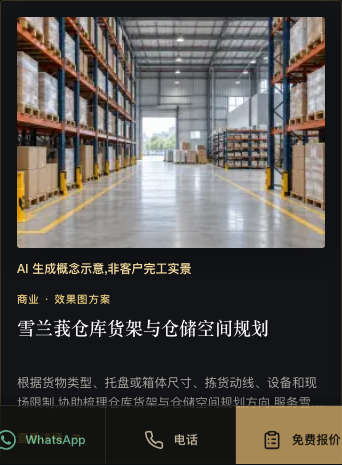
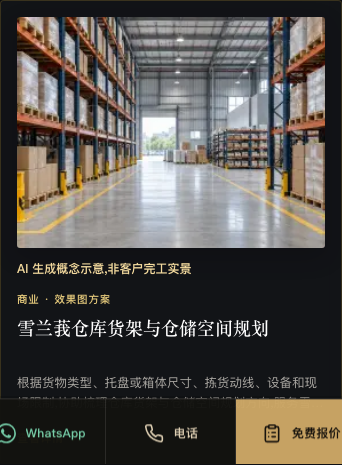
Rebase service media candidate and refresh V5 QA evidence

Changed region(s): [[0.0, 0.843, 1.0, 1.0], [0.0, 0.9032, 0.2632, 0.9935], [0.4094, 0.9032, 0.5848, 0.9634]]

diff --git a/drafts/seo/fc-20260926-website-placeholder-media-audit-v1/service-media-original-concepts-r2-v5-rollback.md b/drafts/seo/fc-20260926-website-placeholder-media-audit-v1/service-media-original-concepts-r2-v5-rollback.md
@@ -1,0 +1,15 @@
+# ORG-026 服务图片 R2 V5 候选备份与恢复
+
+- 原 task_id：`fc-20260926-service-media-original-concepts-implementation-v2`，原图片任务 `fc-20260926-website-placeholder-media-audit-v1`；动作 `org026-service-media-site-code-r2-v4`，候选版本 `service-media-original-concepts-r2-v5`。PR #104 仅为待复验草稿；本文件不表示 QA 通过或已发布。
+- V5 基线为包含 KL 段落修复的 main `9e77b95e1f7ead6cdcb722a9634579ee6d48b84b`。隔离工作树 `backups/fc-20260926-service-media-original-concepts-r2-v5/manifest.json` 锁定新候选 SHA、逐文件前后哈希和完整二进制补丁；`baseline-source.tar.gz` 保存被修改文件的基线字节。核验 `git apply --reverse --check`，保留三张主图的视觉权利台账哈希。
+- 唯一通道为 `site_code_candidate → site_publish`；三条 CMS 图片字段走独立 `cms_content_candidate → cms_write`，本代码备份不能替代 CMS 全行备份、Saved ID 或回滚。
+
+## 未发布时
+
+保留 PR #104 为草稿，停止合并即可。若撤回候选，按当前 main 新建隔离分支，只撤销本候选差异并核对补丁，不重置或覆盖其他工作树。旧图片的权属问题尚在，不能把重新显示旧图视作问题解决。
+
+## 发布后发现问题时
+
+1. 记录线上 SHA、具体 URL、图片 HTTP/哈希、双语可见披露、alt 和报价路径。若 CMS 已保存三行媒体字段，先按每行发布时记录的完整行版本与受保护通道办理独立恢复；不直接改数据库。
+2. 在最新 main 上制作最小前向修复或 revert PR；核对与后续改动的冲突，重新跑相关测试、typecheck、i18n、图片/移动端检查及严格 CI，再通过同 SHA Pages 通道部署。不能整站回退到旧 `4ec9a3a` 或覆盖已上线 KL 段落行为。
+3. 公开复核 EN/ZH 服务列表和 Builtin、Warehouse、Office 三项详情共 12 个位置，并核对运行 SHA。任何不确定写入先回读真实线上状态，不盲目重复执行。
